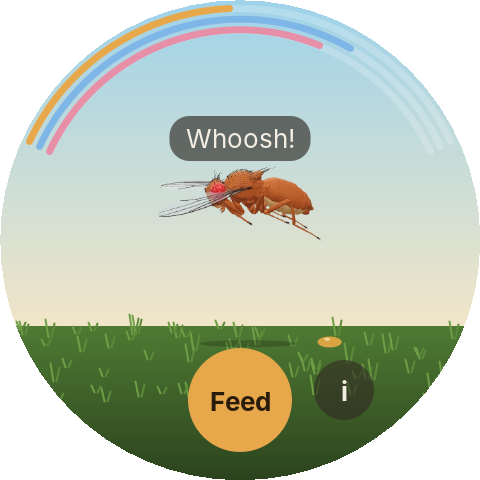
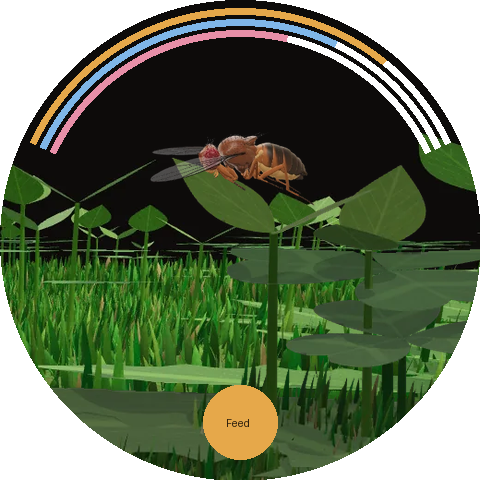
Feed the Fly: final scenery layers and new screen previews
Claude-Session: https://claude.ai/code/session_01WiaYrimFVSW4kZ5dt2Wb6g

diff --git a/watch/README.md b/watch/README.md
@@ -7,15 +7,19 @@ wiring, whether to eat what you give it and whether to flee when you poke at it.
 
 ![Feed the Fly screens](previews/screens.png)
 
-![Feed the Fly animation](previews/feed-the-fly.gif)
+The fly lives in the same grass arena as the website: the GPU grass, clover, dandelions and
+seedlings with their detailed skins (web/src/terrain.js), rendered at the fly sprites' scale and
+viewing angle into three layers (`tools/scenery.html`): the plants just behind the fly's path,
+the grass in front of it (drawn over its feet), and a far view to the arena's edge that
+scrolls with parallax. The view follows the fly and rises when it flies.
 
-These previews are rendered on a computer from the game's real logic and connectome circuit,
-redrawing the screen with the app's own layout, colors and sprite frames
-(`brain/src/test/kotlin/fly/PreviewRender.kt`). They are not captures from a watch.
+These previews are composed on a computer from the game's own assets with the app's placement
+rules (`tools/compose_preview.py`). They are not captures from a watch.
 
 ## Playing
 
-- **Feed** (or tap the ground) drops sugar. The fly walks over, and when its feet touch
+- **Feed** drops sugar just ahead of the fly (tapping the ground drops it there; an arrow at
+  the edge points to sugar off screen). The fly walks over, and when its feet touch
   the drop its sugar-sensing taste neurons fire. If the proboscis motor neuron **MN9**
   responds, the proboscis comes out and the fly drinks. A full fly often doesn't respond:
   it says "Not hungry" and walks off.
